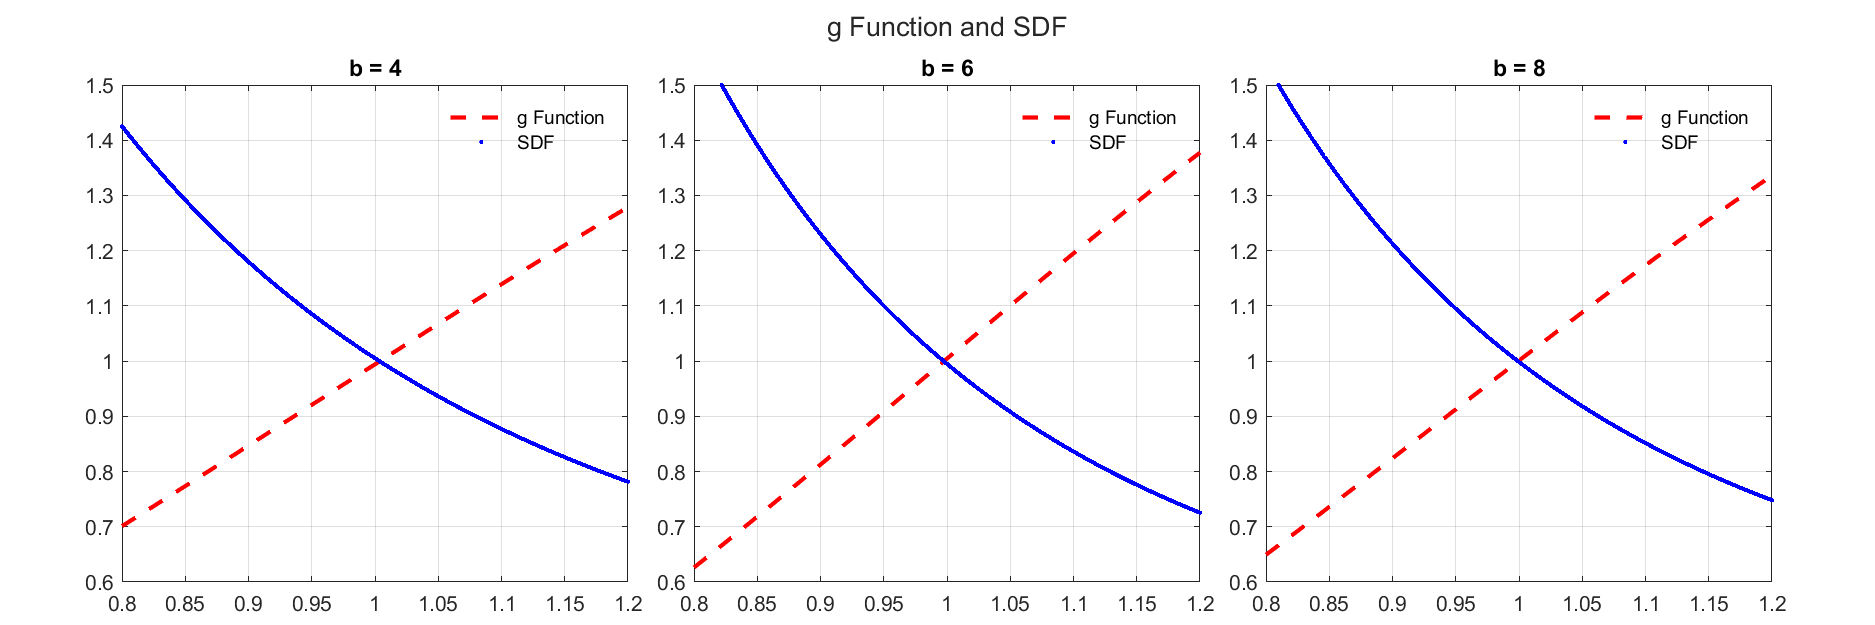
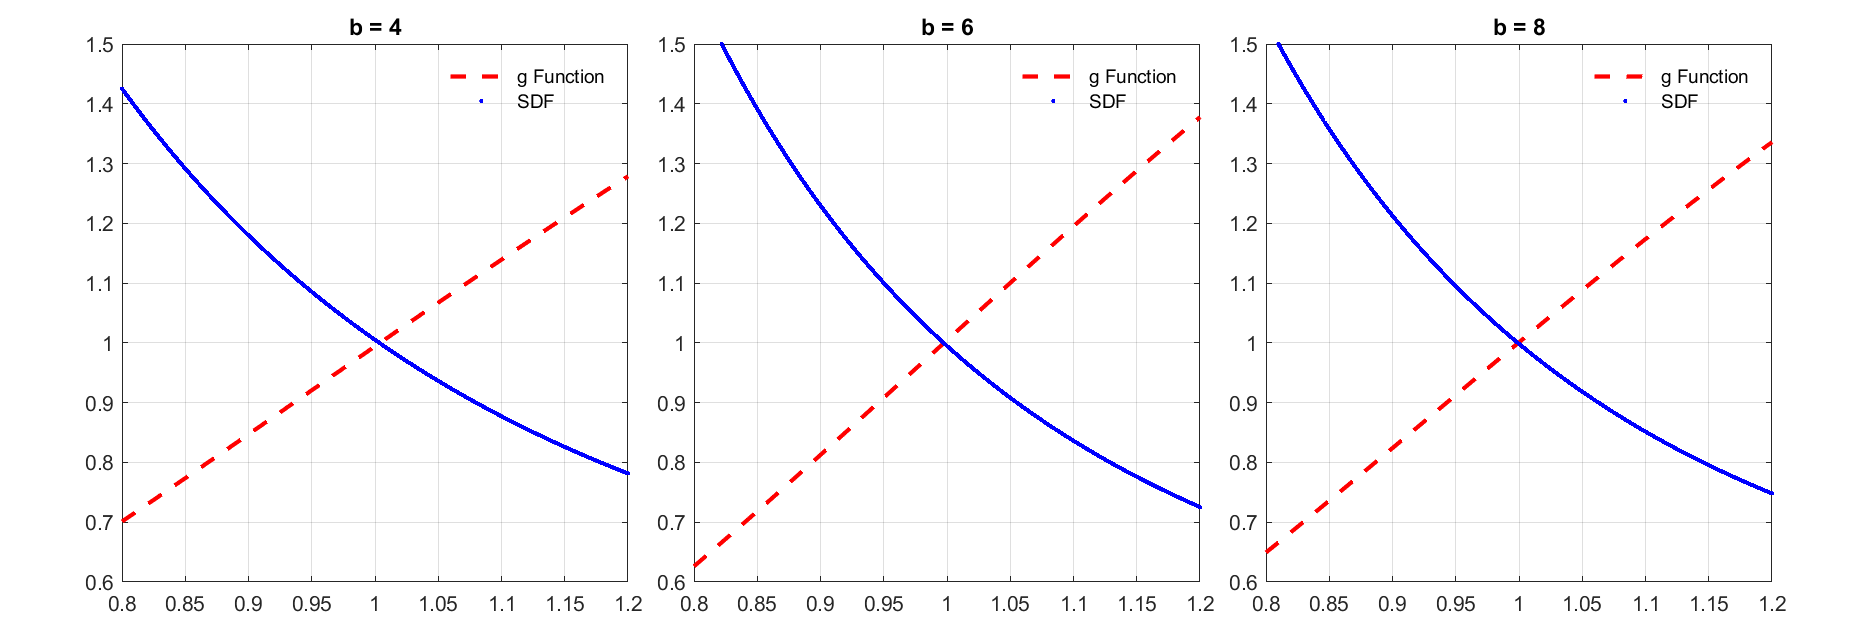
Remove sgtitle

diff --git a/03  條件密度積分方法（CDI method） - 2021 JBF/Procedure__Plot.m b/03  條件密度積分方法（CDI method） - 2021 JBF/Procedure__Plot.m
@@ -161,7 +161,7 @@ for b = [4, 6, 8]
 
 end
 
-sgtitle('Cubic B-Spline with g function value');
+% sgtitle('Cubic B-Spline with g function value');
 
 set(gcf, 'Position', [50, 50, 1200, 400]);
 
@@ -230,7 +230,7 @@ for b = [4, 6, 8]
 
 end
 
-sgtitle('Cubic B-Spline with g function (Full range)');
+% sgtitle('Cubic B-Spline with g function (Full range)');
 
 set(gcf, 'Position', [50, 50, 1200, 400]);
 
@@ -277,7 +277,7 @@ for b = [4, 6, 8]
 
 end
 
-sgtitle('g Function and SDF');
+% sgtitle('g Function and SDF');
 
 set(gcf, 'Position', [50, 50, 1200, 400]);
 
